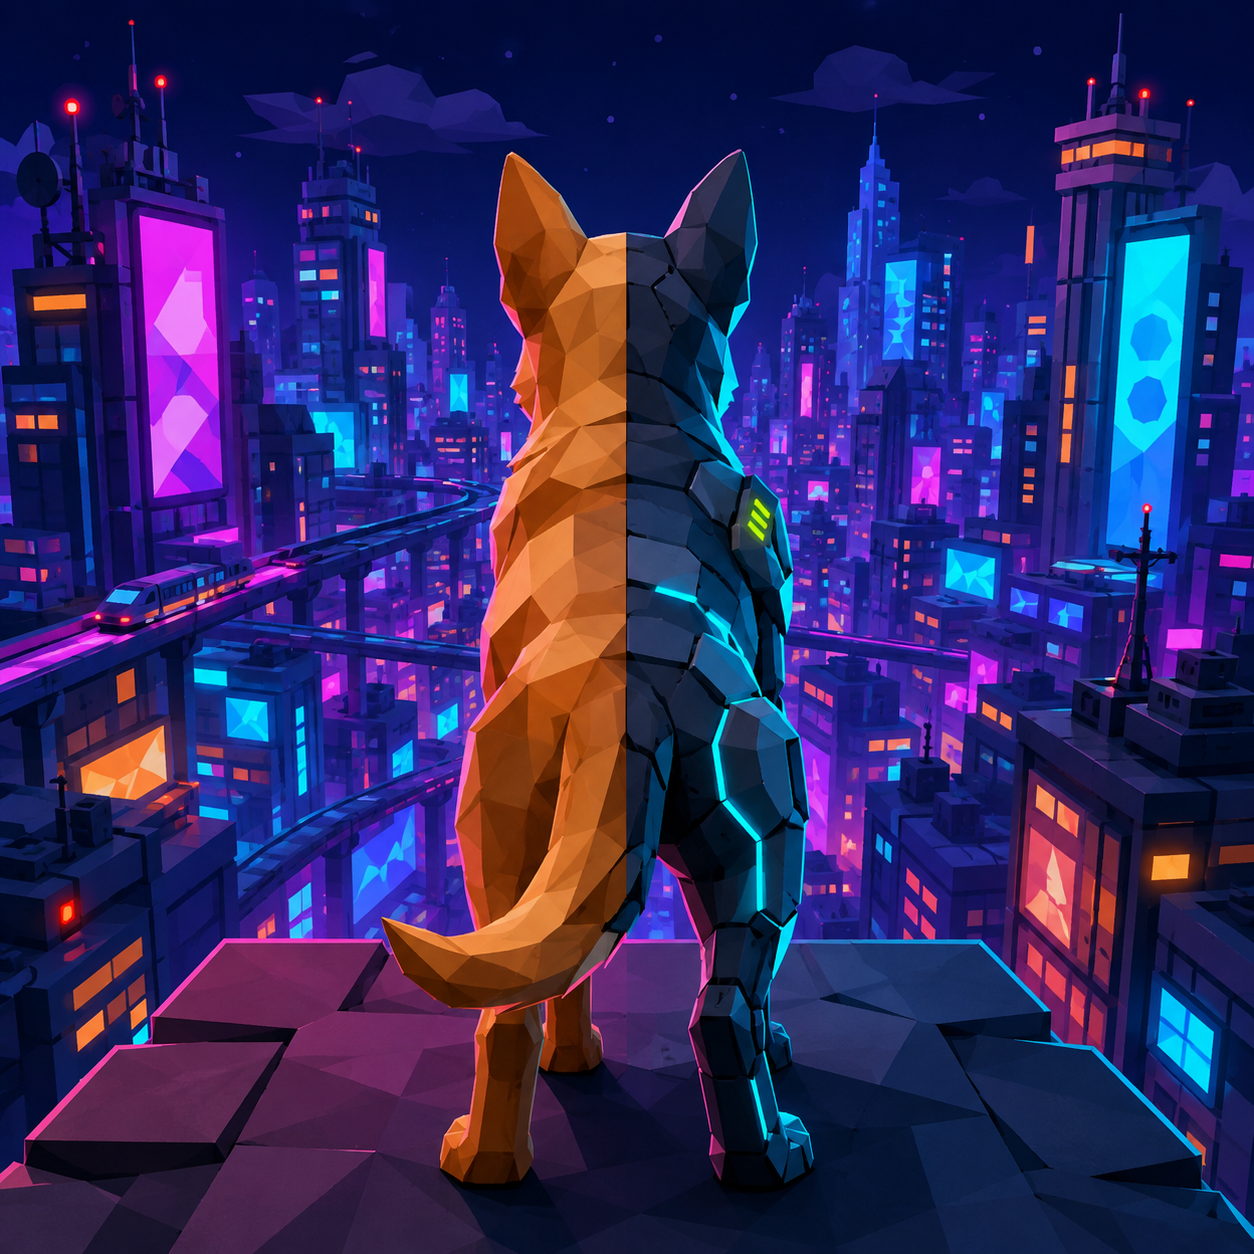
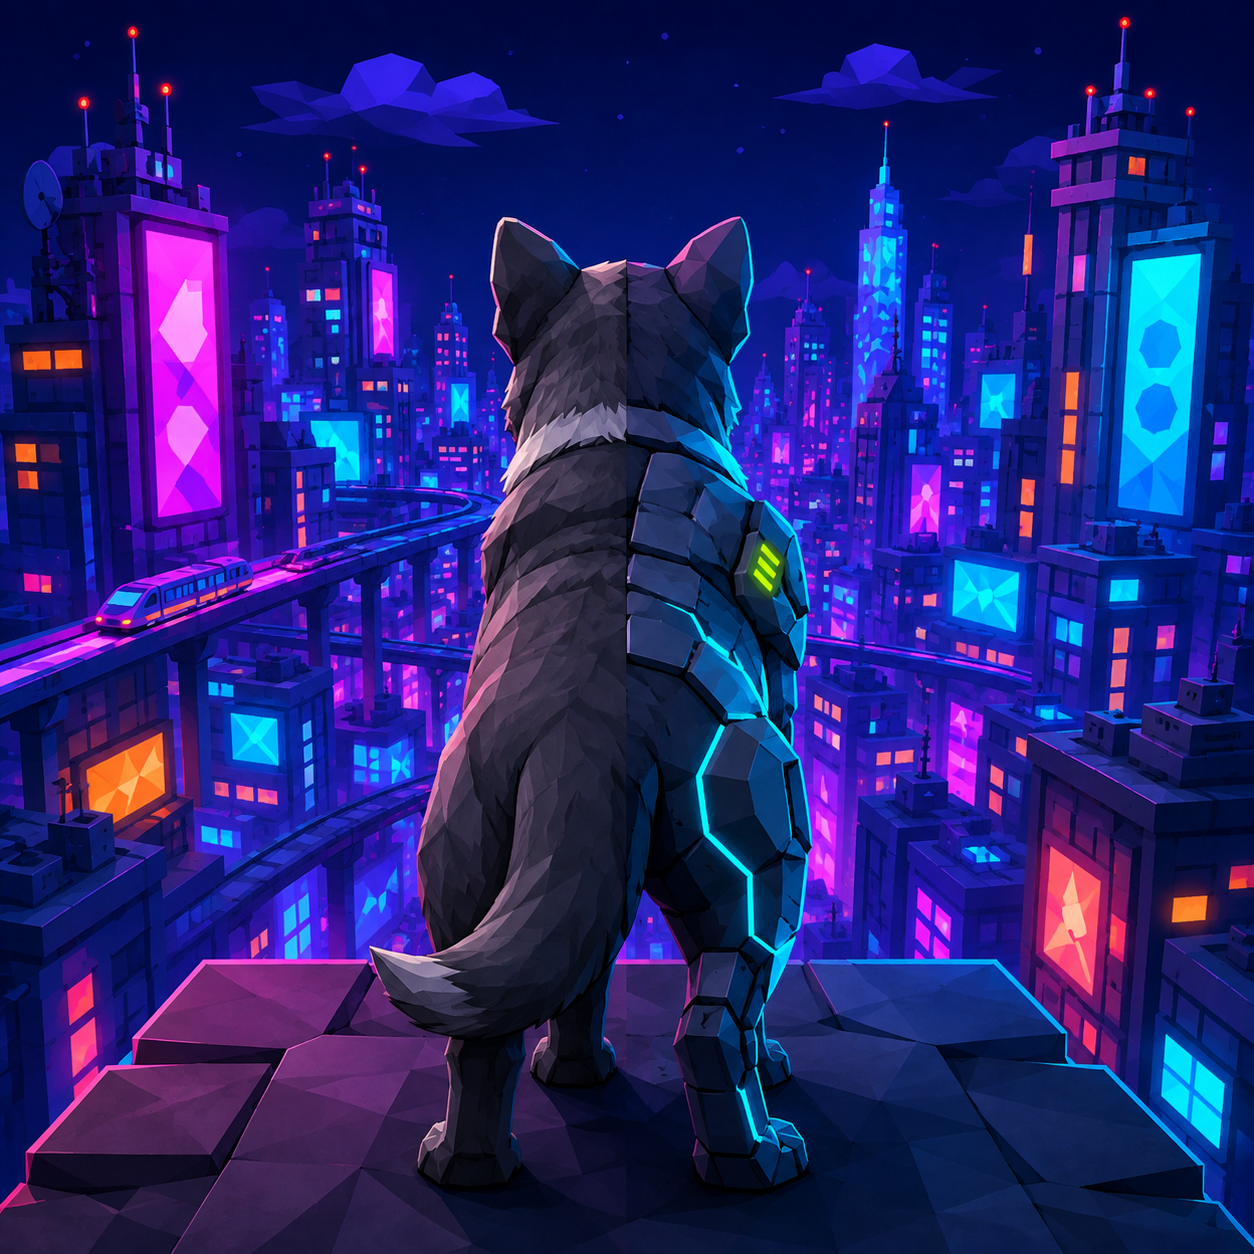
Corrige entrega de imagens e atualiza icone cyberpunk do Dogolio

diff --git a/next.config.ts b/next.config.ts
@@ -3,7 +3,7 @@ import type { NextConfig } from 'next';
 /**
  * Primeira publicação sem analytics, pixels, cookies não essenciais ou rede externa.
  * A CSP proíbe qualquer origem remota de script, estilo, fonte ou imagem: as fontes são
- * auto-hospedadas e os banners são servidos pelo próprio otimizador do Next.
+ * auto-hospedadas e as imagens são arquivos estáticos do próprio site.
  */
 const contentSecurityPolicy = [
   "default-src 'self'",
@@ -44,7 +44,10 @@ const nextConfig: NextConfig = {
     };
   },
   images: {
-    // Os PNGs 1672×941 permanecem como mestres; o build entrega derivados AVIF/WebP.
+    // O otimizador da hospedagem passou a responder 402 (pagamento exigido).
+    // Servir os arquivos locais evita que esse bloqueio esconda fotos, ícones e banners.
+    // Os SaaS já usam WebP e novos ícones são compactados antes da publicação.
+    unoptimized: true,
     formats: ['image/avif', 'image/webp'],
     deviceSizes: [360, 390, 640, 768, 1024, 1280, 1440, 1920],
     imageSizes: [96, 160, 240, 320, 480],

diff --git a/src/lib/image-delivery.test.ts b/src/lib/image-delivery.test.ts
@@ -1,0 +1,18 @@
+import { describe, expect, it } from 'vitest';
+import { existsSync } from 'node:fs';
+import { join } from 'node:path';
+import nextConfig from '../../next.config';
+import { dogolio } from '@/content/projects';
+import { OG } from '@/lib/metadata';
+
+describe('Entrega de imagens', () => {
+  it('serve arquivos locais sem depender do otimizador bloqueado da hospedagem', () => {
+    expect(nextConfig.images?.unoptimized).toBe(true);
+  });
+
+  it('usa o novo ícone versionado do Dogolio no site e no compartilhamento', () => {
+    expect(dogolio.icone?.src).toBe('/projects/dogolio/dogolio-icon-cyberpunk-gray-512.webp');
+    expect(OG.dogolio).toBe(dogolio.icone?.src);
+    expect(existsSync(join(process.cwd(), 'public', OG.dogolio))).toBe(true);
+  });
+});

diff --git a/src/lib/metadata.ts b/src/lib/metadata.ts
@@ -7,7 +7,7 @@ export const OG = {
   docalio: '/og/docalio.png',
   gramelio: '/og/gramelio.png',
   catelio: '/projects/catelio/catelio-icon-512.png',
-  dogolio: '/projects/dogolio/dogolio-icon-512.png',
+  dogolio: '/projects/dogolio/dogolio-icon-cyberpunk-gray-512.webp',
   morvelio: '/projects/morvelio/morvelio-icon-512.png',
 } as const;
 

diff --git a/src/content/projects.ts b/src/content/projects.ts
@@ -359,7 +359,7 @@ export const dogolio: Project = {
     altura: 941,
   },
   icone: {
-    src: '/projects/dogolio/dogolio-icon-512.png',
+    src: '/projects/dogolio/dogolio-icon-cyberpunk-gray-512.webp',
     alt: '',
     tamanho: 512,
   },

diff --git a/docs/CORRECAO-IMAGENS-2026-09-03.md b/docs/CORRECAO-IMAGENS-2026-09-03.md
@@ -1,0 +1,18 @@
+# Correção de imagens — 3 de setembro de 2026
+
+## Causa comprovada
+
+Os arquivos locais retornavam HTTP 200, mas o caminho de otimização `/_next/image` retornava HTTP 402 com `OPTIMIZED_IMAGE_REQUEST_PAYMENT_REQUIRED` para as fotos SaaS e o ícone do Dogolio. Uma captura no navegador confirmou cartões com imagens quebradas.
+
+## Correção
+
+- `images.unoptimized: true`: o Next Image preserva dimensões, layout e carregamento adiado, mas referencia o arquivo estático diretamente. Nenhum plano, cobrança ou proteção de segurança foi alterado.
+- As 18 fotos SaaS continuam em WebP. O ícone novo do Dogolio usa um WebP de 512 × 512, aproximadamente 64 KB, com nome versionado para não reutilizar o cache da arte anterior.
+- A nova arte mostra um cachorro mais velho, cinza-escuro, metade mecânico, em estilo cartoon, de costas em um prédio com vista para a cidade cyberpunk.
+- Arquivo original e exportações PNG preservados no projeto e em `C:\dev\dogolio`. Prompt da geração integrada: `C:\dev\dogolio\PROMPT-ICONE-CINZA-CYBERPUNK.md`.
+
+## Prevenção de regressão
+
+O teste de configuração impede a reativação acidental do caminho bloqueado. `node tools/check-saas-pages.mjs https://blajeen.com.br` verifica também as URLs reais de `img/srcset`, HTTP 200, tipo e dimensões dos arquivos, além dos conteúdos SaaS e do ícone novo do Dogolio. Verificar apenas a existência da imagem original não é suficiente.
+
+A entrega estática transfere a imagem na dimensão do arquivo. Manter novas fotografias e artes da interface compactadas antes de publicar; não enviar originais grandes diretamente aos cartões.
